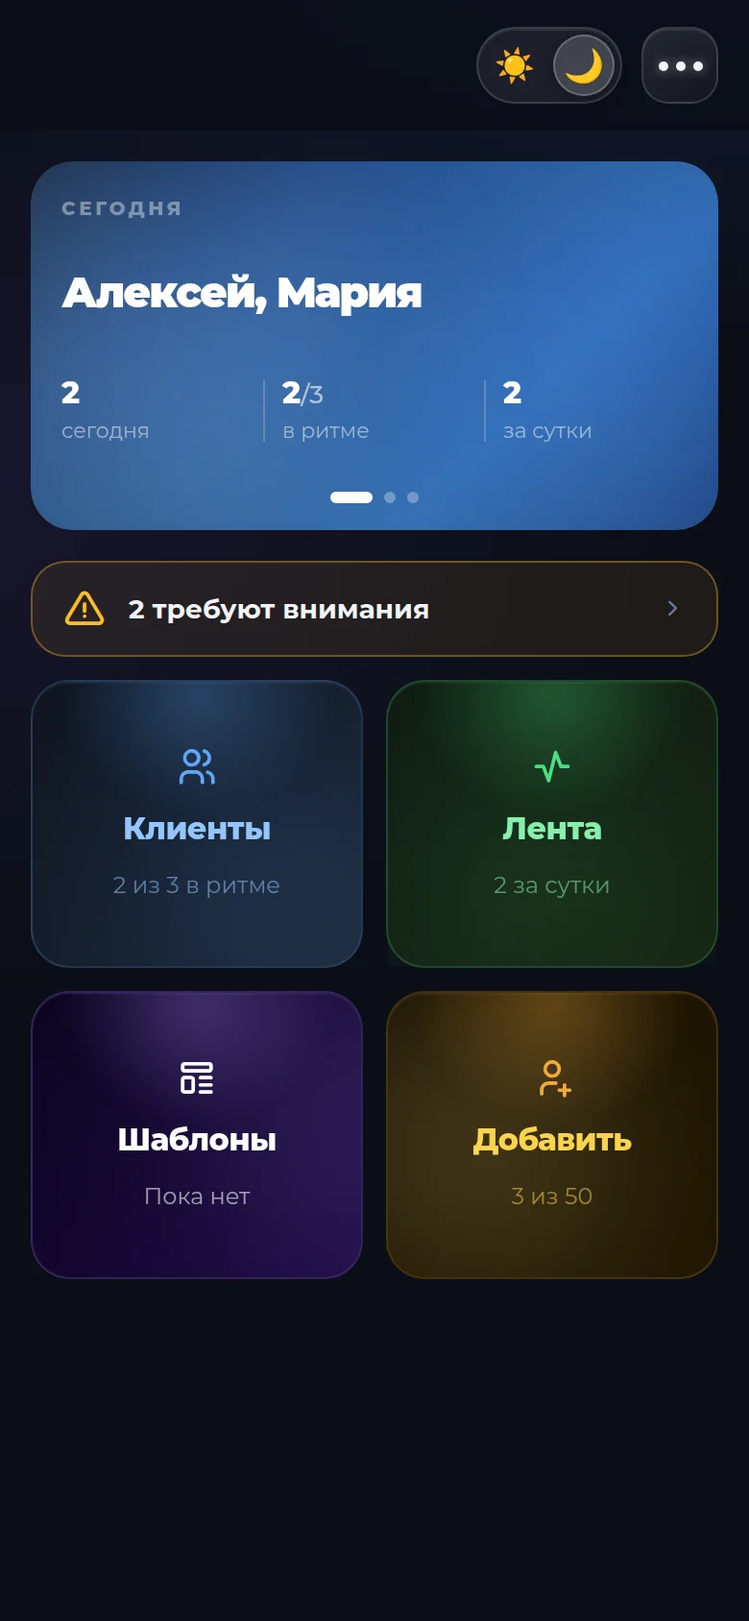
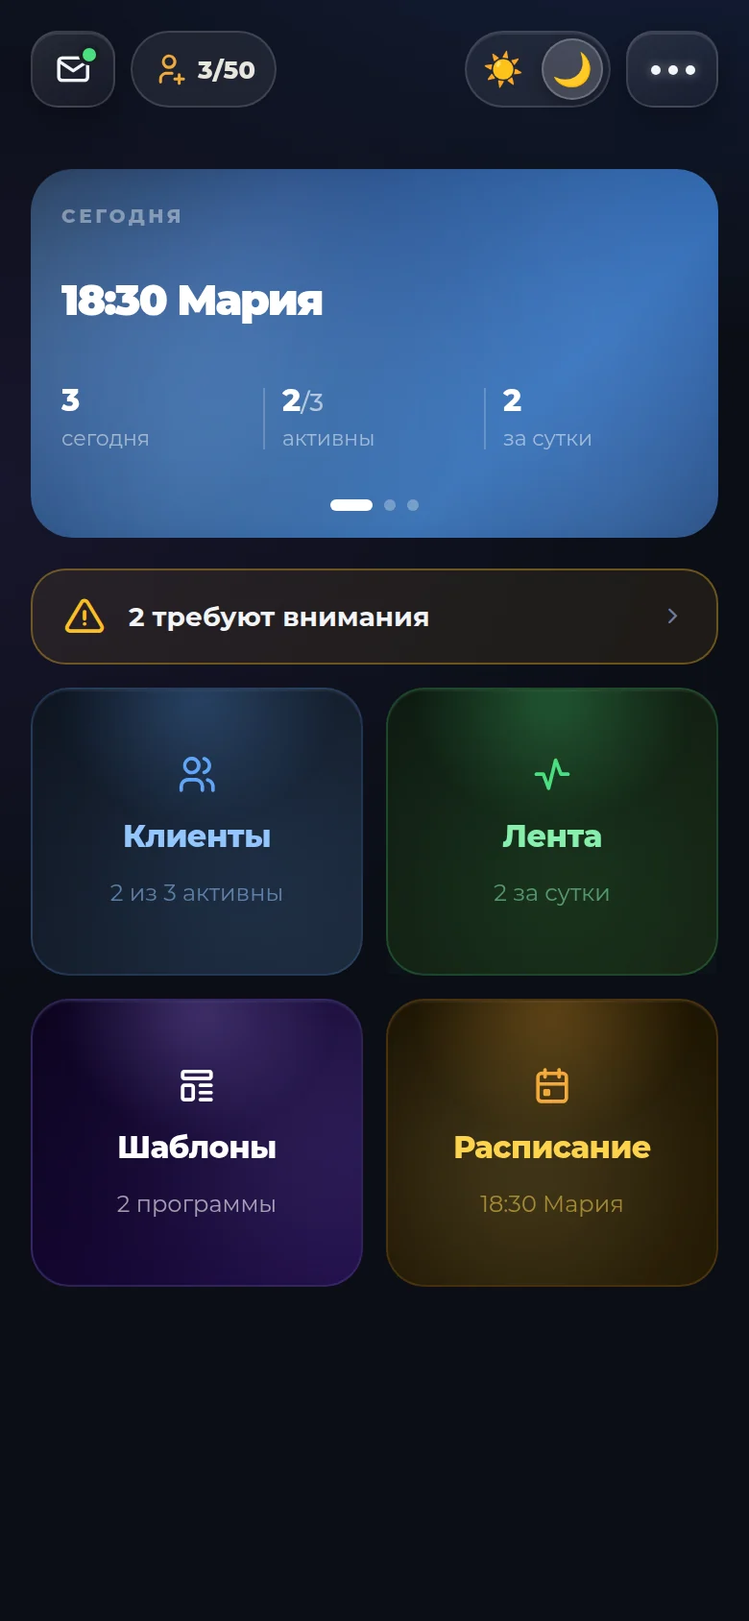
Add files via upload

diff --git a/start.html b/start.html
@@ -888,7 +888,7 @@ footer{border-top:1px solid var(--line);padding:34px 0 calc(34px + env(safe-area
 <section class="coach-sec" id="c-feat" data-for="coach"><div class="wrap ai-grid">
   <div class="ai-phones coach-phones rv">
     <div class="phone pa float"><div class="scr"><img src="img/landing/coach_client.webp" alt="Карточка клиента в кабинете тренера" loading="lazy"></div></div>
-    <div class="phone pb float"><div class="scr"><img src="img/landing/coach_home.webp" alt="Главная кабинета тренера" loading="lazy"></div></div>
+    <div class="phone pb float"><div class="scr"><img src="img/landing/coach_sched.webp" alt="Расписание тренера" loading="lazy"></div></div>
   </div>
   <div>
     <span class="eyebrow">Возможности</span>
@@ -897,6 +897,8 @@ footer{border-top:1px solid var(--line);padding:34px 0 calc(34px + env(safe-area
     <div class="ai-feats rv">
       <div class="ai-feat"><i class="ti ti-layout-dashboard"></i><b>Главная и лента</b><span>Кто тренируется сегодня, рекорды, пропуски и комментарии. Слайды и плитки настраиваете под себя</span></div>
       <div class="ai-feat"><i class="ti ti-chart-bar"></i><b>Обзор клиента</b><span>Оценка по четырём опорам: регулярность, сила, нагрузка и тело. Плюс что сделать дальше</span></div>
+      <div class="ai-feat"><i class="ti ti-calendar-event"></i><b>Расписание</b><span>Записи с временем и повтором каждую неделю. Тренировки клиентов по плану подтягиваются сами</span></div>
+      <div class="ai-feat"><i class="ti ti-ruler-measure"></i><b>Замеры тела</b><span>Вес, обхваты и пропорции с выводами. Замерили в зале, внесли сами</span></div>
       <div class="ai-feat"><i class="ti ti-template"></i><b>Шаблоны программ</b><span>Собрали раз, назначаете в два клика. Веса подставятся из истории клиента</span></div>
       <div class="ai-feat"><i class="ti ti-send"></i><b>Итоги недели</b><span>Цифры считаются сами, вы добавляете комментарий, клиент видит в приложении</span></div>
       <div class="ai-feat"><i class="ti ti-sparkles"></i><b>AI в помощь</b><span>Подскажет прогрессию и плато, а решение за вами. Клиента он у вас не заберёт</span></div>
@@ -920,6 +922,7 @@ footer{border-top:1px solid var(--line);padding:34px 0 calc(34px + env(safe-area
       <li><i class="ti ti-bell-ringing"></i>Пропуски и паузы видны в тот же день</li>
       <li><i class="ti ti-trophy"></i>Рекорды клиентов, чтобы вовремя похвалить</li>
       <li><i class="ti ti-chart-line"></i>Плато с готовыми заменами упражнений</li>
+      <li><i class="ti ti-calendar-event"></i>Расписание дня: кто и во сколько</li>
     </ul>
   </div>
   <div class="c-dash" id="c-dash" aria-hidden="true">
@@ -1009,7 +1012,8 @@ footer{border-top:1px solid var(--line);padding:34px 0 calc(34px + env(safe-area
     <details class="qa rv"><summary>Что видит тренер у клиента?<i class="ti ti-plus"></i></summary><p>Только тренировки: план, веса, повторы, отметки, комментарии и замеры тела. Финансы, привычки и цели клиента закрыты правилами базы.</p></details>
     <details class="qa rv"><summary>Я тренирую в зале, это подойдёт?<i class="ti ti-plus"></i></summary><p>Да. Отмечайте проведённые тренировки галочкой в плане клиента, вносите веса и замеры сами. Посещаемость и прогресс посчитаются так же, как у онлайн-клиентов.</p></details>
     <details class="qa rv"><summary>AI не заменит меня для клиента?<i class="ti ti-plus"></i></summary><p>Нет. Когда у клиента есть тренер, его собственный AI-план выключается, чтобы не было двух разных планов. AI работает на вас: подсказывает прогрессию и плато, а решение принимаете вы.</p></details>
-    <details class="qa rv"><summary>Как подключить клиента?<i class="ti ti-plus"></i></summary><p>Клиент регистрируется в YOU, в меню выбирает «Подключить тренера» и создаёт ключ с фамилией и именем. Вы вводите ключ во вкладке «Добавить». Ключ одноразовый и действует сутки. Второй способ: ваша ссылка-приглашение.</p></details>
+    <details class="qa rv"><summary>Как подключить клиента?<i class="ti ti-plus"></i></summary><p>Клиент регистрируется в YOU, в меню выбирает «Подключить тренера» и создаёт ключ с фамилией и именем. Вы нажимаете «Добавить» в шапке кабинета и вводите ключ. Ключ одноразовый и действует сутки. Второй способ: ваша ссылка-приглашение.</p></details>
+    <details class="qa rv"><summary>Есть расписание занятий?<i class="ti ti-plus"></i></summary><p>Да, плитка «Расписание»: неделя, записи с временем, повтор каждую неделю и отметка «Провёл». Время можно сразу написать клиенту в план, он увидит его над тренировкой.</p></details>
     <details class="qa rv"><summary>Сколько это стоит?<i class="ti ti-plus"></i></summary><p>Сейчас идёт ранний доступ: кабинет бесплатный, до 50 клиентов и все функции. Для клиента приложение тоже бесплатное.</p></details>
   </div>
   <div class="center" style="margin-top:40px"><a class="btn btn-main mag" href="coach.html"><i class="ti ti-user-star"></i> Открыть кабинет тренера</a></div>
@@ -1189,7 +1193,7 @@ footer{border-top:1px solid var(--line);padding:34px 0 calc(34px + env(safe-area
 </div>
 <div class="wrap foot-legal">
   <nav><a href="legal/terms.html">Пользовательское соглашение</a><a href="legal/privacy.html">Политика обработки персональных данных</a><a href="legal/consent.html">Согласие на обработку данных</a><a href="legal/requisites.html">Реквизиты</a></nav>
-  <p>ИП Недомолкин Никита <span class="req-otch">[ОТЧЕСТВО]</span> · ИНН 366231388645 · ОГРНИП <span class="req-ogrnip">[ОГРНИП]</span> · г. Воронеж</p>
+  <p>ИП Недомолкин Никита Андреевич · ИНН 366231388645 · ОГРНИП 321366800115530 · г. Воронеж</p>
 </div></footer>
 
 <div class="mcta" id="mcta"><a class="btn btn-main" href="./#/register" data-for="me"><i class="ti ti-rocket"></i> Получить приложение</a><a class="btn btn-main" href="coach.html" data-for="coach"><i class="ti ti-user-star"></i> Открыть кабинет тренера</a></div>

diff --git a/legal/consent.html b/legal/consent.html
@@ -19,7 +19,7 @@ table{width:100%;border-collapse:collapse;font-size:14px;margin:8px 0} td,th{bor
 <body><div class="w">
 <div class="top"><a href="../start.html"><img src="../icon.png" alt="YOU"></a><b>YOU</b><div class="sp"></div><nav class="nav"><a href="terms.html">Соглашение</a> <a href="privacy.html">Политика</a> <a href="consent.html" class=on>Согласие</a> <a href="requisites.html">Реквизиты</a></nav></div>
 <h1>Согласие на обработку персональных данных</h1><div class="ed">Редакция от 30 сентября 2026 г.</div>
-<p>Регистрируясь в сервисе YOU по адресу <a href="https://goodlynikita.github.io/my_life/">https://goodlynikita.github.io/my_life/</a> (включая кабинет тренера) и проставляя отметку «Даю согласие на обработку персональных данных», я, действуя свободно, своей волей и в своём интересе, в соответствии со статьёй 9 Федерального закона от 27.07.2006 № 152-ФЗ «О персональных данных» даю согласие <b>индивидуальному предпринимателю Недомолкин Никита <mark data-f="otch">[ОТЧЕСТВО]</mark></b>, ИНН 366231388645, ОГРНИП <mark data-f="ogrnip">[ОГРНИП]</mark>, г. Воронеж (далее: Оператор), на обработку моих персональных данных на следующих условиях.</p>
+<p>Регистрируясь в сервисе YOU по адресу <a href="https://goodlynikita.github.io/my_life/">https://goodlynikita.github.io/my_life/</a> (включая кабинет тренера) и проставляя отметку «Даю согласие на обработку персональных данных», я, действуя свободно, своей волей и в своём интересе, в соответствии со статьёй 9 Федерального закона от 27.07.2006 № 152-ФЗ «О персональных данных» даю согласие <b>индивидуальному предпринимателю Недомолкин Никита Андреевич</b>, ИНН 366231388645, ОГРНИП 321366800115530, г. Воронеж (далее: Оператор), на обработку моих персональных данных на следующих условиях.</p>
 <h2>1. Цели обработки</h2>
 <ul><li>регистрация и ведение моей учётной записи в сервисе YOU;</li><li>работа функций сервиса: тренировки, привычки, финансовый учёт, цели, замеры тела, подсказки;</li><li>предоставление доступа выбранному мной тренеру, если я его подключу, а если я тренер, работа кабинета тренера;</li><li>ответы на мои обращения в поддержку;</li><li>обеспечение работы и безопасности сервиса.</li></ul>
 <h2>2. Перечень персональных данных</h2>
@@ -31,9 +31,9 @@ table{width:100%;border-collapse:collapse;font-size:14px;margin:8px 0} td,th{bor
 <ul><li>Google LLC, 1600 Amphitheatre Parkway, Mountain View, CA 94043, USA (Firebase Realtime Database, Firebase Authentication);</li><li>GitHub, Inc., 88 Colin P Kelly Jr St, San Francisco, CA 94107, USA (GitHub Pages).</li></ul>
 <p>Данные раздела тренировок (планы, выполненные тренировки, рабочие веса, замеры тела, комментарии), а также фамилия и имя, указанные мной в ключе доступа, предоставляются только тому тренеру, которому я сам выдам ключ доступа или по ссылке которого подключусь, и только пока я его не отключу.</p>
 <h2>5. Срок действия и отзыв</h2>
-<p>Согласие действует до удаления моей учётной записи или до его отзыва. Я могу отозвать согласие, направив Оператору заявление на <b><mark data-f="email">[EMAIL]</mark></b> или в Telegram <a href="https://t.me/help_youvsyou">@help_youvsyou</a> с адреса электронной почты, указанного при регистрации. После отзыва Оператор прекращает обработку и уничтожает данные в срок не более 30 дней, если иное не предусмотрено законом. Я понимаю, что без обработки персональных данных пользоваться сервисом невозможно.</p>
+<p>Согласие действует до удаления моей учётной записи или до его отзыва. Я могу отозвать согласие, направив Оператору заявление на <b><a href="mailto:nedomolkin.1998@mail.ru">nedomolkin.1998@mail.ru</a></b> или в Telegram <a href="https://t.me/help_youvsyou">@help_youvsyou</a> с адреса электронной почты, указанного при регистрации. После отзыва Оператор прекращает обработку и уничтожает данные в срок не более 30 дней, если иное не предусмотрено законом. Я понимаю, что без обработки персональных данных пользоваться сервисом невозможно.</p>
 <p>Порядок обработки подробно описан в <a href="privacy.html">Политике обработки персональных данных</a>.</p>
-<div class="req"><b>Индивидуальный предприниматель Недомолкин Никита <mark data-f="otch">[ОТЧЕСТВО]</mark></b>
-ИНН 366231388645 · ОГРНИП <mark data-f="ogrnip">[ОГРНИП]</mark><br>г. Воронеж, Российская Федерация<br>Email: <mark data-f="email">[EMAIL]</mark> · Telegram: <a href="https://t.me/help_youvsyou">@help_youvsyou</a><br>Сайт: <a href="https://goodlynikita.github.io/my_life/">https://goodlynikita.github.io/my_life/</a></div>
+<div class="req"><b>Индивидуальный предприниматель Недомолкин Никита Андреевич</b>
+ИНН 366231388645 · ОГРНИП 321366800115530 от 29.12.2021<br>Зарегистрирован Межрайонной ИФНС России № 12 по Воронежской области<br>г. Воронеж, Российская Федерация<br>Email: <a href="mailto:nedomolkin.1998@mail.ru">nedomolkin.1998@mail.ru</a> · Telegram: <a href="https://t.me/help_youvsyou">@help_youvsyou</a><br>Сайт: <a href="https://goodlynikita.github.io/my_life/">https://goodlynikita.github.io/my_life/</a></div>
 <a class="back" href="../start.html">← На сайт YOU</a>
 </div></body></html>

diff --git a/legal/privacy.html b/legal/privacy.html
@@ -22,7 +22,7 @@ table{width:100%;border-collapse:collapse;font-size:14px;margin:8px 0} td,th{bor
 <h2>1. Общие положения</h2>
 <ol>
 <li>Политика разработана в соответствии с Федеральным законом от 27.07.2006 № 152-ФЗ «О персональных данных» (далее: Закон) и определяет порядок обработки и меры по защите персональных данных в сервисе YOU по адресу <a href="https://goodlynikita.github.io/my_life/">https://goodlynikita.github.io/my_life/</a>, включая приложение YOU и кабинет тренера (далее: Сервис).</li>
-<li>Оператор персональных данных: индивидуальный предприниматель Недомолкин Никита <mark data-f="otch">[ОТЧЕСТВО]</mark>, ИНН 366231388645, ОГРНИП <mark data-f="ogrnip">[ОГРНИП]</mark>, г. Воронеж (далее: Оператор). Контакты для обращений: <mark data-f="email">[EMAIL]</mark>, Telegram <a href="https://t.me/help_youvsyou">@help_youvsyou</a>.</li>
+<li>Оператор персональных данных: индивидуальный предприниматель Недомолкин Никита Андреевич, ИНН 366231388645, ОГРНИП 321366800115530, г. Воронеж (далее: Оператор). Контакты для обращений: <a href="mailto:nedomolkin.1998@mail.ru">nedomolkin.1998@mail.ru</a>, Telegram <a href="https://t.me/help_youvsyou">@help_youvsyou</a>.</li>
 <li>Политика опубликована в свободном доступе на сайте Сервиса. Оператор вправе изменять Политику, новая редакция вступает в силу с момента публикации, если в ней не указано иное.</li>
 </ol>
 <h2>2. Основные понятия</h2>
@@ -59,7 +59,7 @@ table{width:100%;border-collapse:collapse;font-size:14px;margin:8px 0} td,th{bor
 <li>отозвать согласие на обработку персональных данных;</li>
 <li>обжаловать действия Оператора в Роскомнадзоре или в суде.</li>
 </ul>
-<p>Запросы направляются на <mark data-f="email">[EMAIL]</mark>. Оператор отвечает в течение 10 рабочих дней с даты получения запроса. Срок может быть продлён не более чем на 5 рабочих дней с уведомлением субъекта о причинах. Отзыв согласия не влияет на законность обработки до его получения; после отзыва пользоваться Сервисом будет невозможно, так как без обработки данных он не работает.</p>
+<p>Запросы направляются на <a href="mailto:nedomolkin.1998@mail.ru">nedomolkin.1998@mail.ru</a>. Оператор отвечает в течение 10 рабочих дней с даты получения запроса. Срок может быть продлён не более чем на 5 рабочих дней с уведомлением субъекта о причинах. Отзыв согласия не влияет на законность обработки до его получения; после отзыва пользоваться Сервисом будет невозможно, так как без обработки данных он не работает.</p>
 <h2>7. Меры по защите данных</h2>
 <ul>
 <li>вход в учётную запись только по паролю, передача данных по защищённому протоколу HTTPS;</li>
@@ -69,8 +69,8 @@ table{width:100%;border-collapse:collapse;font-size:14px;margin:8px 0} td,th{bor
 <li>назначение Оператором лица, ответственного за организацию обработки персональных данных (сам Оператор), контроль за соблюдением Политики.</li>
 </ul>
 <h2>8. Уничтожение данных и удаление учётной записи</h2>
-<p>Для удаления учётной записи и всех связанных данных направьте запрос на <mark data-f="email">[EMAIL]</mark> или в Telegram <a href="https://t.me/help_youvsyou">@help_youvsyou</a> с адреса электронной почты, указанного при регистрации. Данные уничтожаются в срок не более 30 дней, о чём Пользователь уведомляется.</p>
-<h2>9. Контакты Оператора</h2><div class="req"><b>Индивидуальный предприниматель Недомолкин Никита <mark data-f="otch">[ОТЧЕСТВО]</mark></b>
-ИНН 366231388645 · ОГРНИП <mark data-f="ogrnip">[ОГРНИП]</mark><br>г. Воронеж, Российская Федерация<br>Email: <mark data-f="email">[EMAIL]</mark> · Telegram: <a href="https://t.me/help_youvsyou">@help_youvsyou</a><br>Сайт: <a href="https://goodlynikita.github.io/my_life/">https://goodlynikita.github.io/my_life/</a></div>
+<p>Для удаления учётной записи и всех связанных данных направьте запрос на <a href="mailto:nedomolkin.1998@mail.ru">nedomolkin.1998@mail.ru</a> или в Telegram <a href="https://t.me/help_youvsyou">@help_youvsyou</a> с адреса электронной почты, указанного при регистрации. Данные уничтожаются в срок не более 30 дней, о чём Пользователь уведомляется.</p>
+<h2>9. Контакты Оператора</h2><div class="req"><b>Индивидуальный предприниматель Недомолкин Никита Андреевич</b>
+ИНН 366231388645 · ОГРНИП 321366800115530 от 29.12.2021<br>Зарегистрирован Межрайонной ИФНС России № 12 по Воронежской области<br>г. Воронеж, Российская Федерация<br>Email: <a href="mailto:nedomolkin.1998@mail.ru">nedomolkin.1998@mail.ru</a> · Telegram: <a href="https://t.me/help_youvsyou">@help_youvsyou</a><br>Сайт: <a href="https://goodlynikita.github.io/my_life/">https://goodlynikita.github.io/my_life/</a></div>
 <a class="back" href="../start.html">← На сайт YOU</a>
 </div></body></html>

diff --git a/legal/terms.html b/legal/terms.html
@@ -21,7 +21,7 @@ table{width:100%;border-collapse:collapse;font-size:14px;margin:8px 0} td,th{bor
 <h1>Пользовательское соглашение (публичная оферта)</h1><div class="ed">Редакция от 30 сентября 2026 г.</div>
 <h2>1. Общие положения</h2>
 <ol>
-<li>Настоящее соглашение является публичной офертой (ст. 435, п. 2 ст. 437 ГК РФ) индивидуального предпринимателя Недомолкин Никита <mark data-f="otch">[ОТЧЕСТВО]</mark>, ИНН 366231388645, ОГРНИП <mark data-f="ogrnip">[ОГРНИП]</mark> (далее: Администратор) и определяет условия использования сервиса YOU, доступного по адресу <a href="https://goodlynikita.github.io/my_life/">https://goodlynikita.github.io/my_life/</a>, включая приложение YOU и кабинет тренера (далее: Сервис).</li>
+<li>Настоящее соглашение является публичной офертой (ст. 435, п. 2 ст. 437 ГК РФ) индивидуального предпринимателя Недомолкин Никита Андреевич, ИНН 366231388645, ОГРНИП 321366800115530 (далее: Администратор) и определяет условия использования сервиса YOU, доступного по адресу <a href="https://goodlynikita.github.io/my_life/">https://goodlynikita.github.io/my_life/</a>, включая приложение YOU и кабинет тренера (далее: Сервис).</li>
 <li>Акцептом оферты является регистрация в Сервисе с проставлением отметки о согласии с настоящим соглашением. С момента акцепта соглашение считается заключённым между Администратором и лицом, прошедшим регистрацию (далее: Пользователь).</li>
 <li>Обработка персональных данных осуществляется в соответствии с <a href="privacy.html">Политикой обработки персональных данных</a> на основании отдельного <a href="consent.html">согласия</a> Пользователя.</li>
 <li>Сервис предназначен для лиц, достигших 18 лет. Лица младше 18 лет могут пользоваться Сервисом только с согласия законного представителя.</li>
@@ -89,7 +89,7 @@ table{width:100%;border-collapse:collapse;font-size:14px;margin:8px 0} td,th{bor
 <li>К соглашению применяется право Российской Федерации.</li>
 <li>До обращения в суд стороны направляют друг другу претензию. Срок ответа на претензию: 30 дней. Споры рассматриваются в суде по правилам подсудности, установленным законодательством РФ.</li>
 <li>Обращения направляются по контактам ниже.</li>
-</ol><div class="req"><b>Индивидуальный предприниматель Недомолкин Никита <mark data-f="otch">[ОТЧЕСТВО]</mark></b>
-ИНН 366231388645 · ОГРНИП <mark data-f="ogrnip">[ОГРНИП]</mark><br>г. Воронеж, Российская Федерация<br>Email: <mark data-f="email">[EMAIL]</mark> · Telegram: <a href="https://t.me/help_youvsyou">@help_youvsyou</a><br>Сайт: <a href="https://goodlynikita.github.io/my_life/">https://goodlynikita.github.io/my_life/</a></div>
+</ol><div class="req"><b>Индивидуальный предприниматель Недомолкин Никита Андреевич</b>
+ИНН 366231388645 · ОГРНИП 321366800115530 от 29.12.2021<br>Зарегистрирован Межрайонной ИФНС России № 12 по Воронежской области<br>г. Воронеж, Российская Федерация<br>Email: <a href="mailto:nedomolkin.1998@mail.ru">nedomolkin.1998@mail.ru</a> · Telegram: <a href="https://t.me/help_youvsyou">@help_youvsyou</a><br>Сайт: <a href="https://goodlynikita.github.io/my_life/">https://goodlynikita.github.io/my_life/</a></div>
 <a class="back" href="../start.html">← На сайт YOU</a>
 </div></body></html>

diff --git a/legal/requisites.html b/legal/requisites.html
@@ -18,8 +18,8 @@ table{width:100%;border-collapse:collapse;font-size:14px;margin:8px 0} td,th{bor
 </style></head>
 <body><div class="w">
 <div class="top"><a href="../start.html"><img src="../icon.png" alt="YOU"></a><b>YOU</b><div class="sp"></div><nav class="nav"><a href="terms.html">Соглашение</a> <a href="privacy.html">Политика</a> <a href="consent.html">Согласие</a> <a href="requisites.html" class=on>Реквизиты</a></nav></div>
-<h1>Реквизиты</h1><div class="ed">Сведения о лице, предоставляющем сервис YOU</div><div class="req"><b>Индивидуальный предприниматель Недомолкин Никита <mark data-f="otch">[ОТЧЕСТВО]</mark></b>
-ИНН 366231388645 · ОГРНИП <mark data-f="ogrnip">[ОГРНИП]</mark><br>г. Воронеж, Российская Федерация<br>Email: <mark data-f="email">[EMAIL]</mark> · Telegram: <a href="https://t.me/help_youvsyou">@help_youvsyou</a><br>Сайт: <a href="https://goodlynikita.github.io/my_life/">https://goodlynikita.github.io/my_life/</a></div>
+<h1>Реквизиты</h1><div class="ed">Сведения о лице, предоставляющем сервис YOU</div><div class="req"><b>Индивидуальный предприниматель Недомолкин Никита Андреевич</b>
+ИНН 366231388645 · ОГРНИП 321366800115530 от 29.12.2021<br>Зарегистрирован Межрайонной ИФНС России № 12 по Воронежской области<br>г. Воронеж, Российская Федерация<br>Email: <a href="mailto:nedomolkin.1998@mail.ru">nedomolkin.1998@mail.ru</a> · Telegram: <a href="https://t.me/help_youvsyou">@help_youvsyou</a><br>Сайт: <a href="https://goodlynikita.github.io/my_life/">https://goodlynikita.github.io/my_life/</a></div>
 <p>Сервис YOU (приложение для тренировок, привычек, финансов и целей и кабинет тренера) предоставляется на условиях <a href="terms.html">Пользовательского соглашения</a>. Персональные данные обрабатываются в соответствии с <a href="privacy.html">Политикой обработки персональных данных</a>.</p>
 <a class="back" href="../start.html">← На сайт YOU</a>
 </div></body></html>

diff --git a/sw.js b/sw.js
@@ -1,7 +1,7 @@
 /* ============================================================
    SERVICE WORKER — офлайн кеш
    ============================================================ */
-const CACHE = 'nik-system-v52';
+const CACHE = 'nik-system-v54';
 
 const STATIC = [
   '/my_life/',
